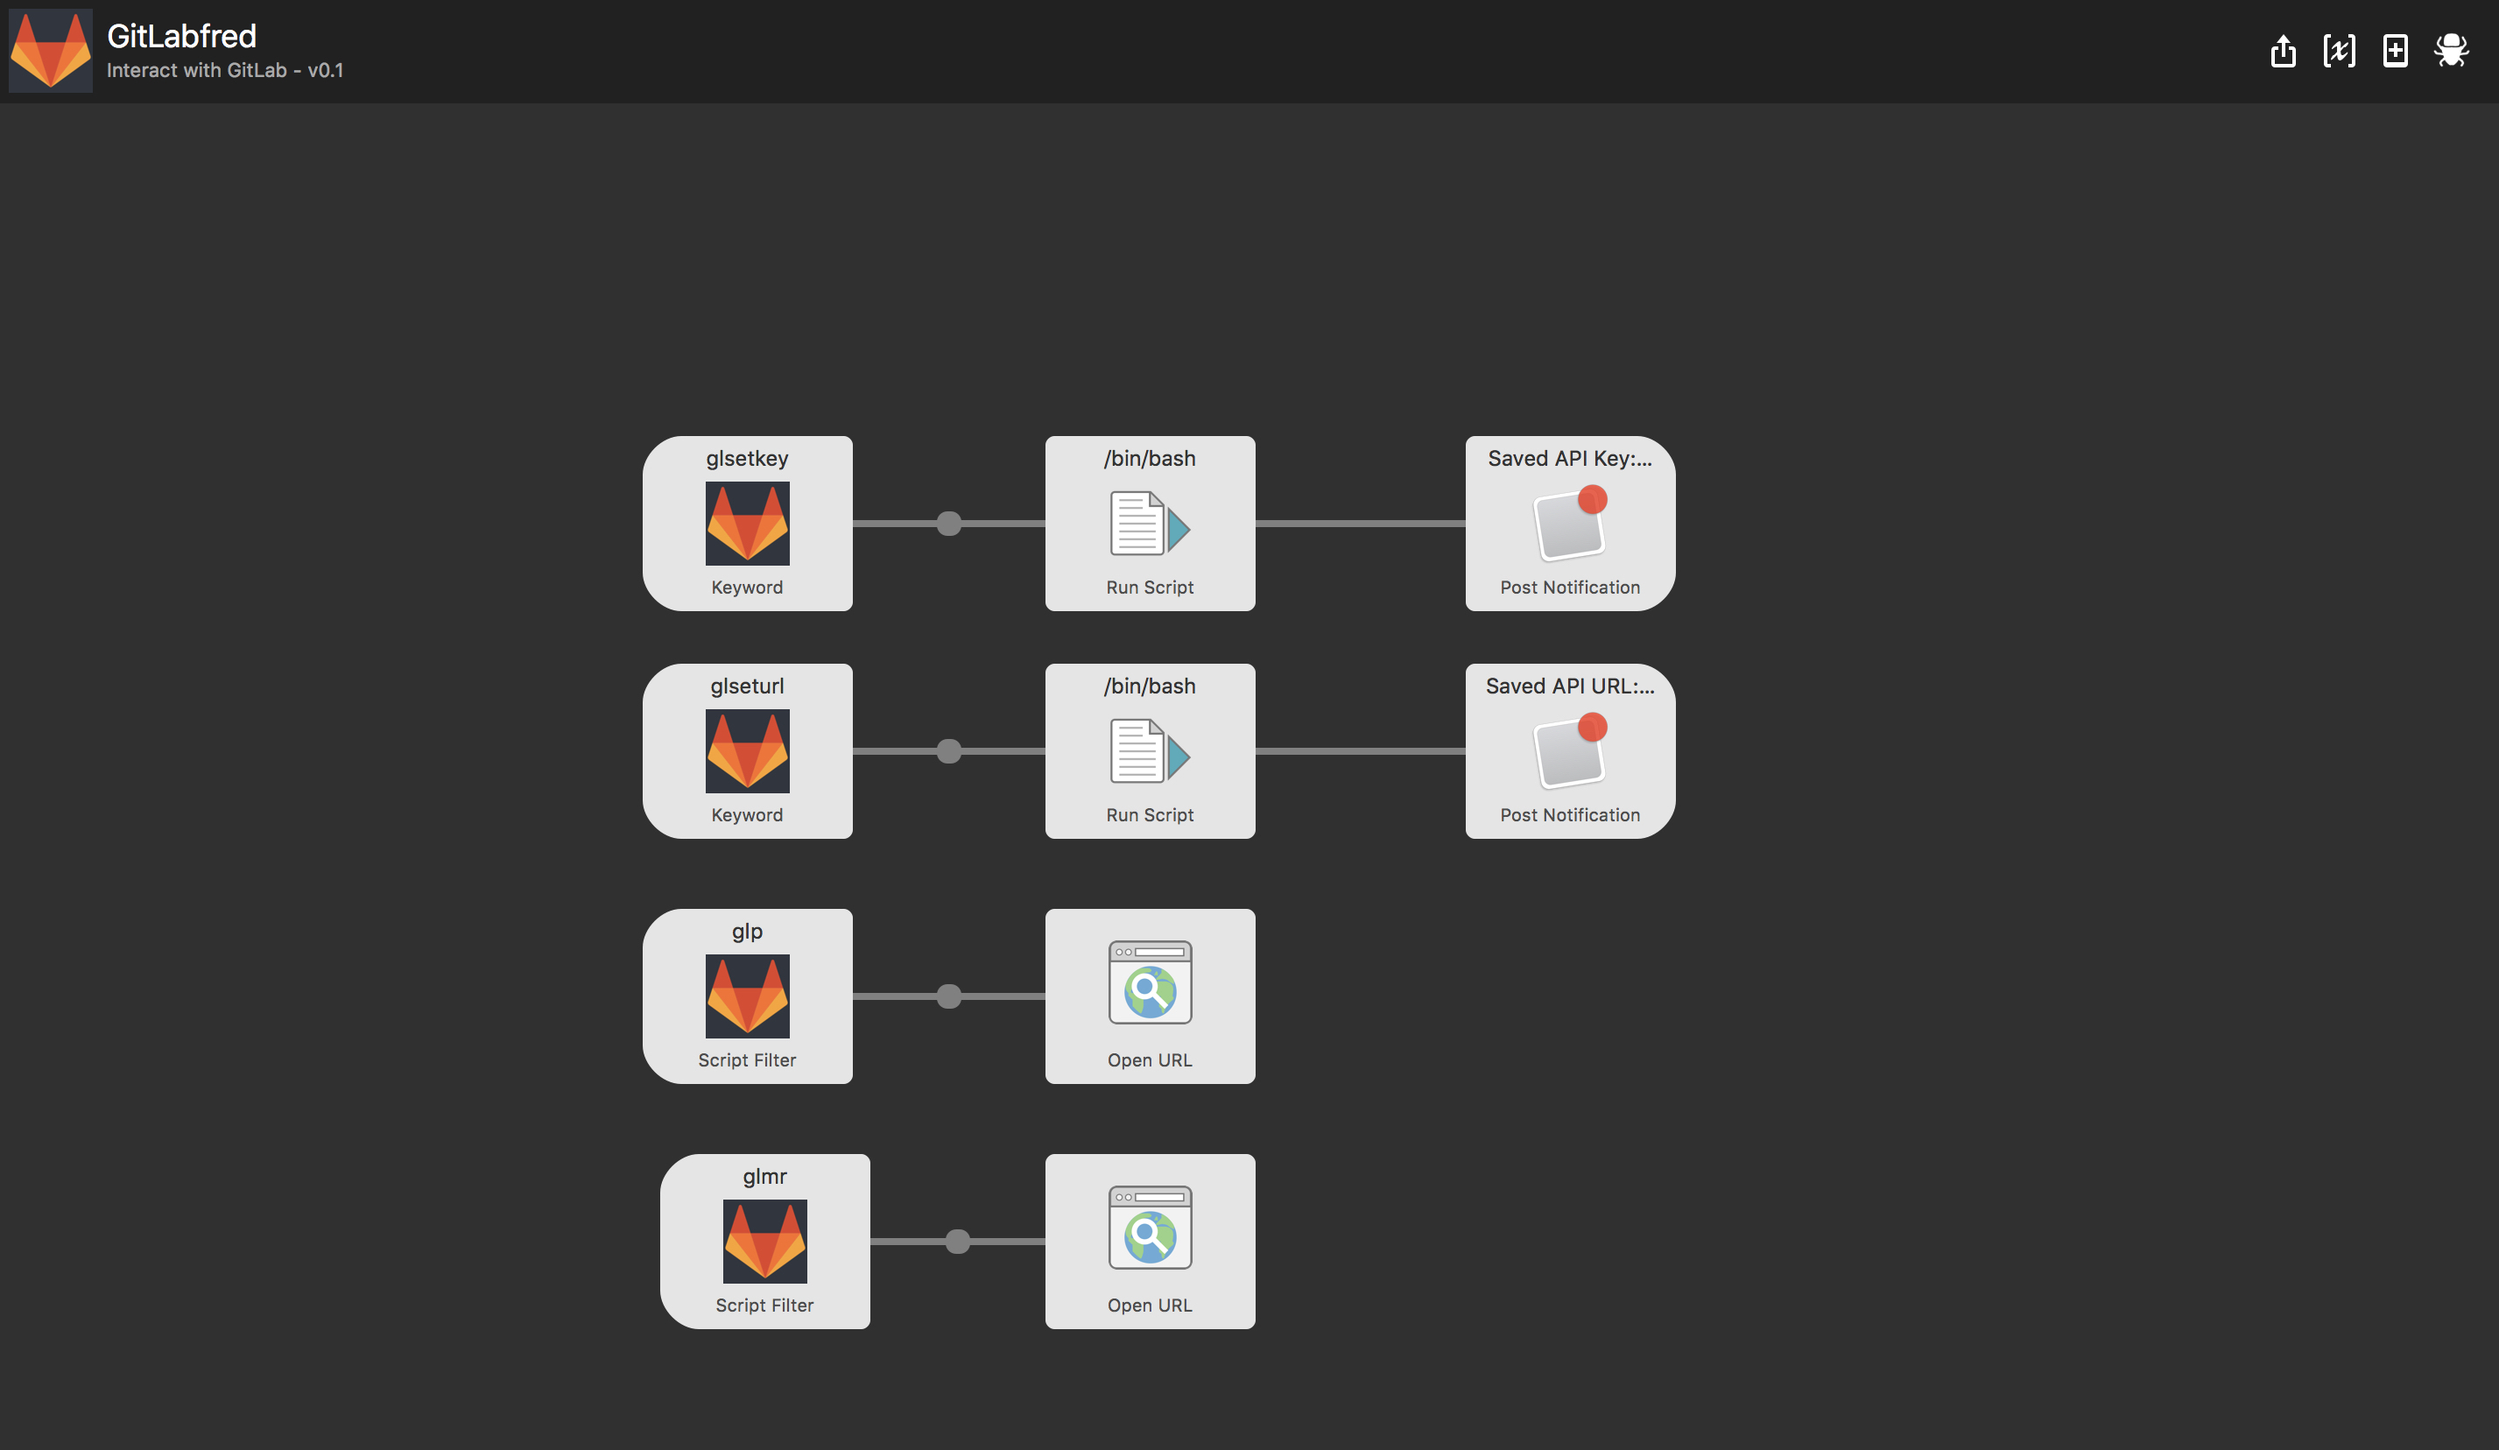
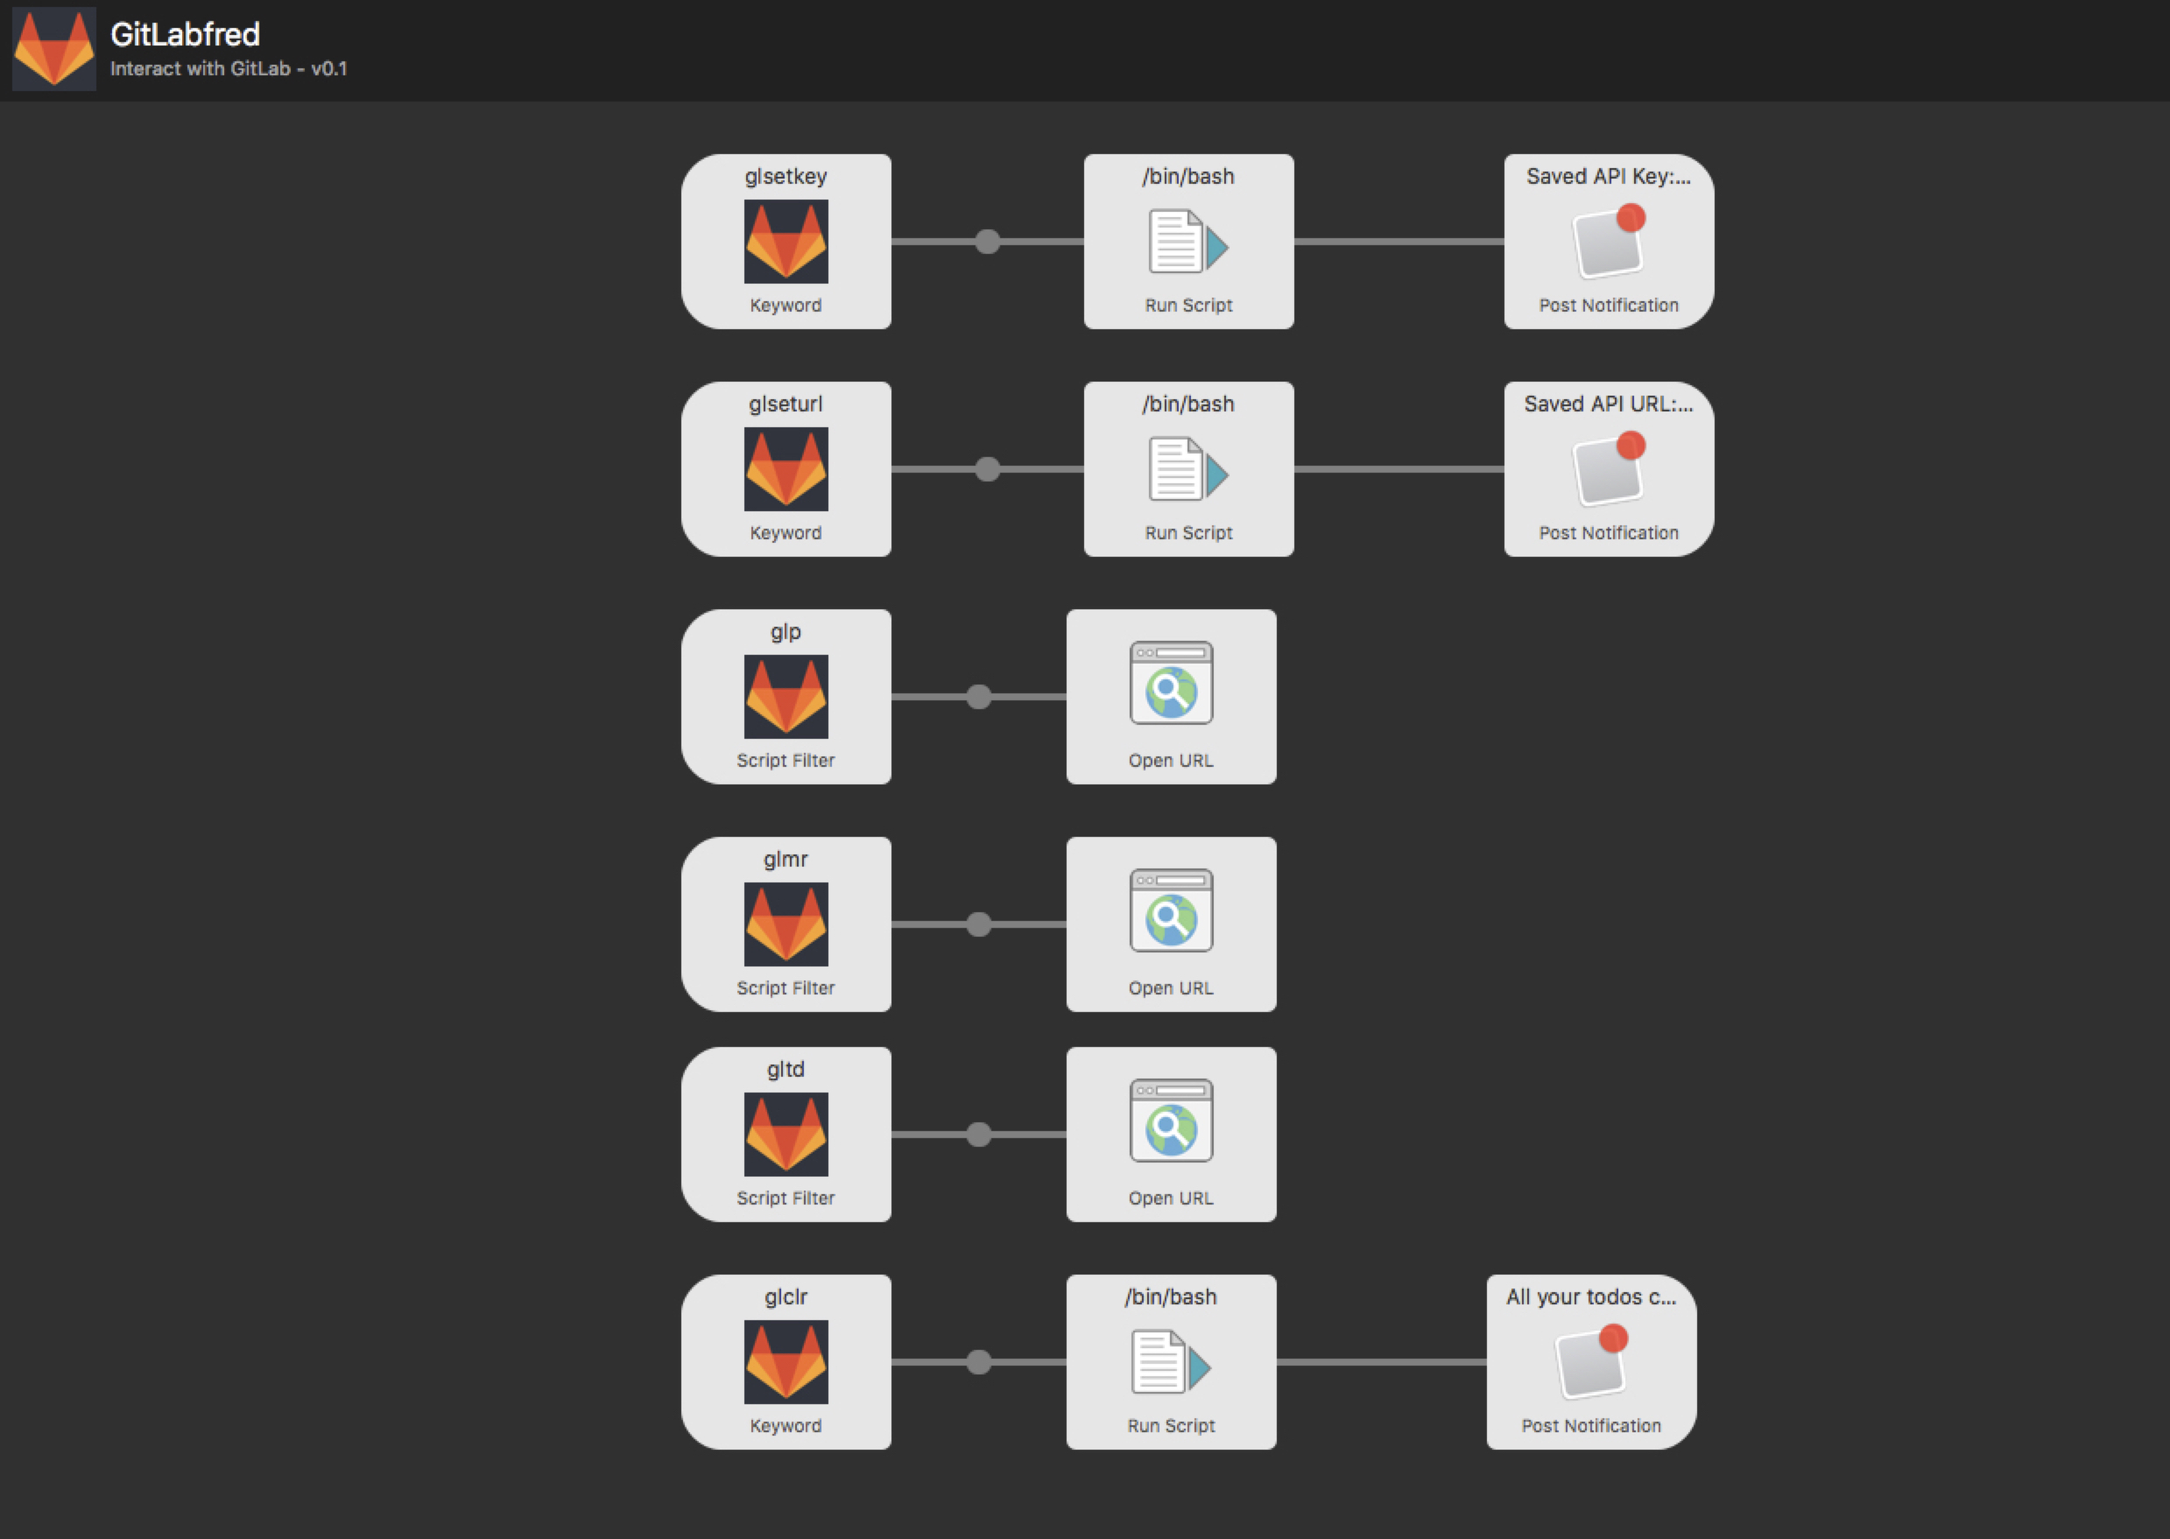
add glclr and gltd

diff --git a/README.md b/README.md
@@ -1,7 +1,6 @@
 # GitLabFred
 A Wonderful GitLab Alfred workflow.
 
-
 ![预览](https://github.com/hechen/GitLabFred/blob/master/.assets/all.png)
 
 ## Set up your Private Token
@@ -16,6 +15,21 @@ A Wonderful GitLab Alfred workflow.
 ## Query all merge requests created by you.
 ![gitlab query merge request created by me](https://github.com/hechen/GitLabFred/blob/master/.assets/glmr.png)
 
+## Query your todos.
+![gitlab query todos](https://github.com/hechen/GitLabFred/blob/master/.assets/gltd.png)
+
+## Mark all your todos done.
+![gitlab mark all todos done](https://github.com/hechen/GitLabFred/blob/master/.assets/glclr.png)
+
 
 More workflow will come😘.
+
+
+
+
+-------
+
+[GitLab API Documentation](https://docs.gitlab.com/ee/api/README.html)
+[Alfred workflow Documentation](http://www.deanishe.net/alfred-workflow/)
+
 
